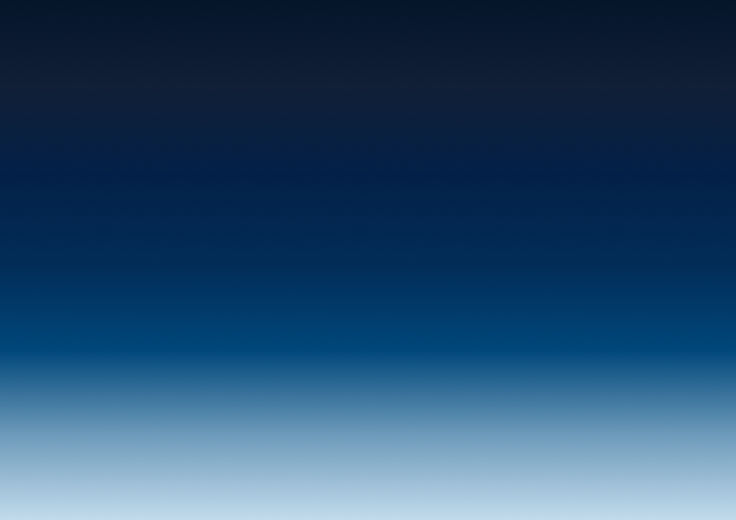
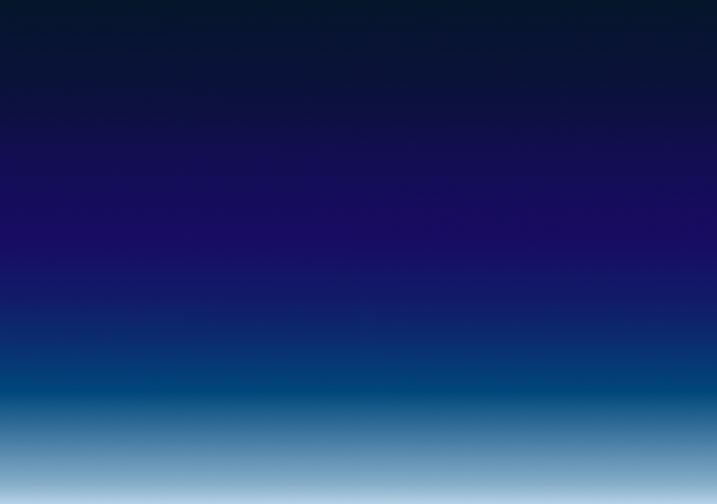
Adjusted the background on about

diff --git a/Website/indexStyle.css b/Website/indexStyle.css
@@ -137,8 +137,9 @@ p {
     align-items: center;
     background-color: #00477A; /* Container background color */
     background-image: url(imagesWebsite/backgroundWebsite.png);
-    position: relative;
-    overflow: hidden; /* Hide overflowing content */
+    background-size: cover; /* Ensure the background image covers the entire container */
+    background-position: center; 
+     position: relative; 
     
 }
 
